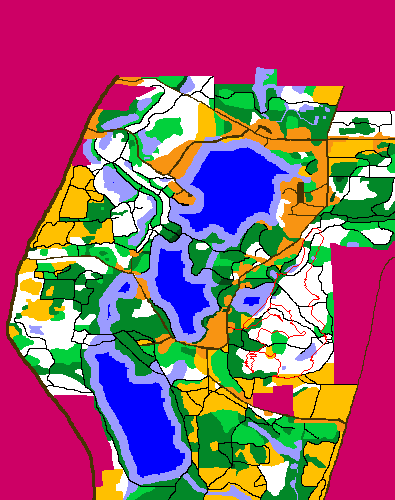
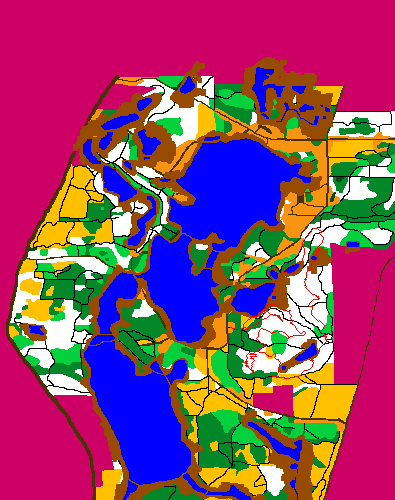
bug fixes with boundry checking

diff --git a/orienteeringai.py b/orienteeringai.py
@@ -14,6 +14,7 @@ DIFFICULTY_SCALE = 5
 
 terrain_image = None
 elevation_file = None
+elevation_file_path = ''
 points = []
 season = ''
 output_image_path = None
@@ -27,7 +28,7 @@ slow_run_forest = (2, 208, 60, 255)
 walk_forest = (2, 136, 40, 255)
 impass = (5, 73, 24, 255)
 water = (0, 0, 255, 255)
-swamp = (0, 255, 0, 100)
+swamp = (150, 75, 0, 255)
 new_water = (0, 0, 255, 100)
 road = (71, 51, 3, 255)
 foot_path = (0, 0, 0, 255)
@@ -77,36 +78,36 @@ def winter_transform(raw_image):
             ice.add((currentx, currenty))
             local_ice.add((currentx, currenty))
             if current[2] < 7:
-                if (currentx + 1 < 395):
-                    if (raw_image[currentx + 1, currenty] == water):
+                if currentx + 1 < 395:
+                    if raw_image[currentx + 1, currenty] == water:
                         if (currentx + 1, currenty) not in local_ice:
                             neighbors.append((currentx + 1, currenty, current[2] + 1))
-                if (currentx - 1 > 0):
-                    if (raw_image[currentx - 1, currenty] == water):
+                if currentx - 1 > 0:
+                    if raw_image[currentx - 1, currenty] == water:
                         if (currentx - 1, currenty) not in local_ice:
                             neighbors.append((currentx - 1, currenty, current[2] + 1))
-                if (currenty + 1 < 500):
-                    if (raw_image[currentx, currenty + 1] == water):
+                if currenty + 1 < 500:
+                    if raw_image[currentx, currenty + 1] == water:
                         if (currentx, currenty + 1) not in local_ice:
                             neighbors.append((currentx, currenty + 1, current[2] + 1))
-                if (currenty - 1 > 0):
-                    if (raw_image[currentx, currenty - 1] == water):
+                if currenty - 1 > 0:
+                    if raw_image[currentx, currenty - 1] == water:
                         if (currentx, currenty - 1) not in local_ice:
                             neighbors.append((currentx, currenty - 1, current[2] + 1))
-                if (currentx - 1 > 0 and currenty - 1 > 0):
-                    if (raw_image[currentx - 1, currenty - 1] == water):
+                if currentx - 1 > 0 and currenty - 1 > 0:
+                    if raw_image[currentx - 1, currenty - 1] == water:
                         if (currentx - 1, currenty - 1) not in local_ice:
                             neighbors.append((currentx - 1, currenty - 1, current[2] + 1))
-                if (currentx - 1 > 0 and currenty + 1 < 500):
-                    if (raw_image[currentx - 1, currenty + 1] == water):
+                if currentx - 1 > 0 and currenty + 1 < 500:
+                    if raw_image[currentx - 1, currenty + 1] == water:
                         if (currentx - 1, currenty + 1) not in local_ice:
                             neighbors.append((currentx - 1, currenty + 1, current[2] + 1))
-                if (currentx + 1 < 395 and currenty - 1 > 0):
-                    if (raw_image[currentx + 1, currenty - 1] == water):
+                if currentx + 1 < 395 and currenty - 1 > 0:
+                    if raw_image[currentx + 1, currenty - 1] == water:
                         if (currentx + 1, currenty - 1) not in local_ice:
                             neighbors.append((currentx + 1, currenty - 1, current[2] + 1))
-                if (currentx + 1 < 395 and currenty + 1 < 500):
-                    if (raw_image[currentx + 1, currenty + 1] == water):
+                if currentx + 1 < 395 and currenty + 1 < 500:
+                    if raw_image[currentx + 1, currenty + 1] == water:
                         if (currentx + 1, currenty + 1) not in local_ice:
                             neighbors.append((currentx + 1, currenty + 1, current[2] + 1))
     for coord in ice:
@@ -126,61 +127,68 @@ def spring_transform(raw_image):
                         raw_image[x, y - 1] != water:
                     border_water.append((x, y))
 
-    elevation_map =[[]]
+    elevation_map = [[]]
     for y in range(0, 500):
         elevation_map.append(elevation_file.readline().split())
 
     swamp_set = set()
     for pixel in border_water:
-        print(pixel)
         depth = 0
         base_elevation = elevation_map[pixel[1]][pixel[0]]
         # get neighbors
         neighbors = [(pixel[0], pixel[1], base_elevation, depth)]
         local_swamp = set()
         while len(neighbors) > 0:
-            print(len(neighbors))
             current = neighbors.pop()
             currentx = current[0]
             currenty = current[1]
             # Freeze
             swamp_set.add((currentx, currenty))
             local_swamp.add((currentx, currenty))
-            if float(current[2]) < 1+float(base_elevation) and current[3] < 15:
-                if (currentx + 1 < 395):
-                    if (raw_image[currentx + 1, currenty] != water):
+            if float(current[2]) < 1 + float(base_elevation) and current[3] < 15:
+                if currentx + 1 < 395:
+                    if raw_image[currentx + 1, currenty] != water:
                         if (currentx + 1, currenty) not in local_swamp:
-                            neighbors.append((currentx + 1, currenty, elevation_map[currenty][currentx+1], current[3]+1))
-                if (currentx - 1 > 0):
-                    if (raw_image[currentx - 1, currenty] != water):
+                            neighbors.append(
+                                (currentx + 1, currenty, elevation_map[currenty][currentx + 1], current[3] + 1))
+                if currentx - 1 > 0:
+                    if raw_image[currentx - 1, currenty] != water:
                         if (currentx - 1, currenty) not in local_swamp:
-                            neighbors.append((currentx - 1, currenty, elevation_map[currenty][currentx-1], current[3]+1))
-                if (currenty + 1 < 500):
-                    if (raw_image[currentx, currenty + 1] != water):
+                            neighbors.append(
+                                (currentx - 1, currenty, elevation_map[currenty][currentx - 1], current[3] + 1))
+                if currenty + 1 < 500:
+                    if raw_image[currentx, currenty + 1] != water:
                         if (currentx, currenty + 1) not in local_swamp:
-                            neighbors.append((currentx, currenty + 1, elevation_map[currenty+1][currentx], current[3]+1))
-                if (currenty - 1 > 0):
-                    if (raw_image[currentx, currenty - 1] != water):
+                            neighbors.append(
+                                (currentx, currenty + 1, elevation_map[currenty + 1][currentx], current[3] + 1))
+                if currenty - 1 > 0:
+                    if raw_image[currentx, currenty - 1] != water:
                         if (currentx, currenty - 1) not in local_swamp:
-                            neighbors.append((currentx, currenty - 1, elevation_map[currenty-1][currentx], current[3]+1))
-                if (currentx - 1 > 0 and currenty - 1 > 0):
-                    if (raw_image[currentx - 1, currenty - 1] != water):
+                            neighbors.append(
+                                (currentx, currenty - 1, elevation_map[currenty - 1][currentx], current[3] + 1))
+                if currentx - 1 > 0 and currenty - 1 > 0:
+                    if raw_image[currentx - 1, currenty - 1] != water:
                         if (currentx - 1, currenty - 1) not in local_swamp:
-                            neighbors.append((currentx - 1, currenty - 1, elevation_map[currenty-1][currentx-1], current[3]+1))
-                if (currentx - 1 > 0 and currenty + 1 < 500):
-                    if (raw_image[currentx - 1, currenty + 1] != water):
+                            neighbors.append(
+                                (currentx - 1, currenty - 1, elevation_map[currenty - 1][currentx - 1], current[3] + 1))
+                if currentx - 1 > 0 and currenty + 1 < 500:
+                    if raw_image[currentx - 1, currenty + 1] != water:
                         if (currentx - 1, currenty + 1) not in local_swamp:
-                            neighbors.append((currentx - 1, currenty + 1, elevation_map[currenty+1][currentx-1], current[3]+1))
-                if (currentx + 1 < 395 and currenty - 1 > 0):
-                    if (raw_image[currentx + 1, currenty - 1] != water):
+                            neighbors.append(
+                                (currentx - 1, currenty + 1, elevation_map[currenty + 1][currentx - 1], current[3] + 1))
+                if currentx + 1 < 395 and currenty - 1 > 0:
+                    if raw_image[currentx + 1, currenty - 1] != water:
                         if (currentx + 1, currenty - 1) not in local_swamp:
-                            neighbors.append((currentx + 1, currenty - 1, elevation_map[currenty-1][currentx+1], current[3]+1))
-                if (currentx + 1 < 395 and currenty + 1 < 500):
-                    if (raw_image[currentx + 1, currenty + 1] != water):
+                            neighbors.append(
+                                (currentx + 1, currenty - 1, elevation_map[currenty - 1][currentx + 1], current[3] + 1))
+                if currentx + 1 < 395 and currenty + 1 < 500:
+                    if raw_image[currentx + 1, currenty + 1] != water:
                         if (currentx + 1, currenty + 1) not in local_swamp:
-                            neighbors.append((currentx + 1, currenty + 1, elevation_map[currenty+1][currentx+1], current[3]+1))
+                            neighbors.append(
+                                (currentx + 1, currenty + 1, elevation_map[currenty + 1][currentx + 1], current[3] + 1))
     for coord in swamp_set:
-        raw_image[coord[0], coord[1]] = swamp
+        if raw_image[coord[0], coord[1]] != water:
+            raw_image[coord[0], coord[1]] = swamp
     print("Spring map generated.")
 
 
@@ -196,10 +204,9 @@ def fall_transform(raw_image):
     print("Fall map generated.")
 
 
-
 # generates a 2d array of tuples (difficulty, elevation_value) from terrain_diff_dict and elevation txt
-def generate_map(terrain_image_object, elevation_file_object):
-    global map_image
+def generate_map():
+    global map_image, elevation_filef
     raw_image = terrain_image.load()
     if season == "fall":
         fall_transform(raw_image)
@@ -207,7 +214,7 @@ def generate_map(terrain_image_object, elevation_file_object):
         winter_transform(raw_image)
     if season == "spring":
         spring_transform(raw_image)
-    elevatioin_file = open(elevation_file_path)
+    elevation_file = open(elevation_file_path)
     for y in range(0, 500):
         row = []
         elevation_row = elevation_file.readline().split()
@@ -216,7 +223,6 @@ def generate_map(terrain_image_object, elevation_file_object):
         map_image.append(row)
 
 
-# helper function so i dont have to transpose
 def get_pixel_difficulty(x, y):
     return map_image[y][x]
 
@@ -252,7 +258,7 @@ def get_move_difficulty(xy1, xy2):
         elevation_2 = diff_2[1]
         # uphill hard downhill easy
         # uphill -> larger (elevation_2 - elevation_1) value = more difficult move
-        return (((float(elevation_2) - float(elevation_1)) + diff_2[0])) * DIFFICULTY_SCALE
+        return ((float(elevation_2) - float(elevation_1)) + diff_2[0]) * DIFFICULTY_SCALE
 
 
 def get_cardinal_difficulty(x, y, cardinal_direction):
@@ -343,11 +349,13 @@ def draw_path(path):
         pixels[pair] = (255, 0, 0, 255)
     terrain_image.save(output_image_path)
 
+
 def path_length(path):
-    return len(path)*X_LENGTH + len(path)*Y_LENGTH
+    return len(path) * X_LENGTH + len(path) * Y_LENGTH
+
 
 def main():
-    global terrain_image, elevation_file, points, season, output_image_path
+    global terrain_image, elevation_file, points, season, output_image_path, elevation_file_path
     if len(sys.argv) != 6:
         print("Not enough arguments. Exiting.")
         return
@@ -357,6 +365,7 @@ def main():
         print("Error occurred opening image file.")
     try:
         elevation_file = open(sys.argv[2])
+        elevation_file_path = sys.argv[2]
         path_file = open(sys.argv[3])
         for line in path_file:
             points.append((int(line.split(" ")[0]), int(line.split(" ")[1].strip("\n"))))
@@ -372,16 +381,16 @@ def main():
         print("Failed to create output file.")
 
     # get a 2d array of tuples with difficulty and elevation
-    generate_map(terrain_image, elevation_file)
+    generate_map()
 
     total = 0
     for p in range(0, len(points) - 1):
         path = find_optimal_path(points[p], points[p + 1])
         draw_path(path)
         length = path_length(path)
-        print("Path found from "+ str(points[p]) + " to " + str(points[p+1]) + " lenght "+ str(length))
+        print("Path found from " + str(points[p]) + " to " + str(points[p + 1]) + " lenght " + str(length))
         total += length
-    print("Total path length: "+str(total)+"m \nNew Image file created.")
+    print("Total path length: " + str(total) + "m \nNew Image file created.")
 
 
 main()
